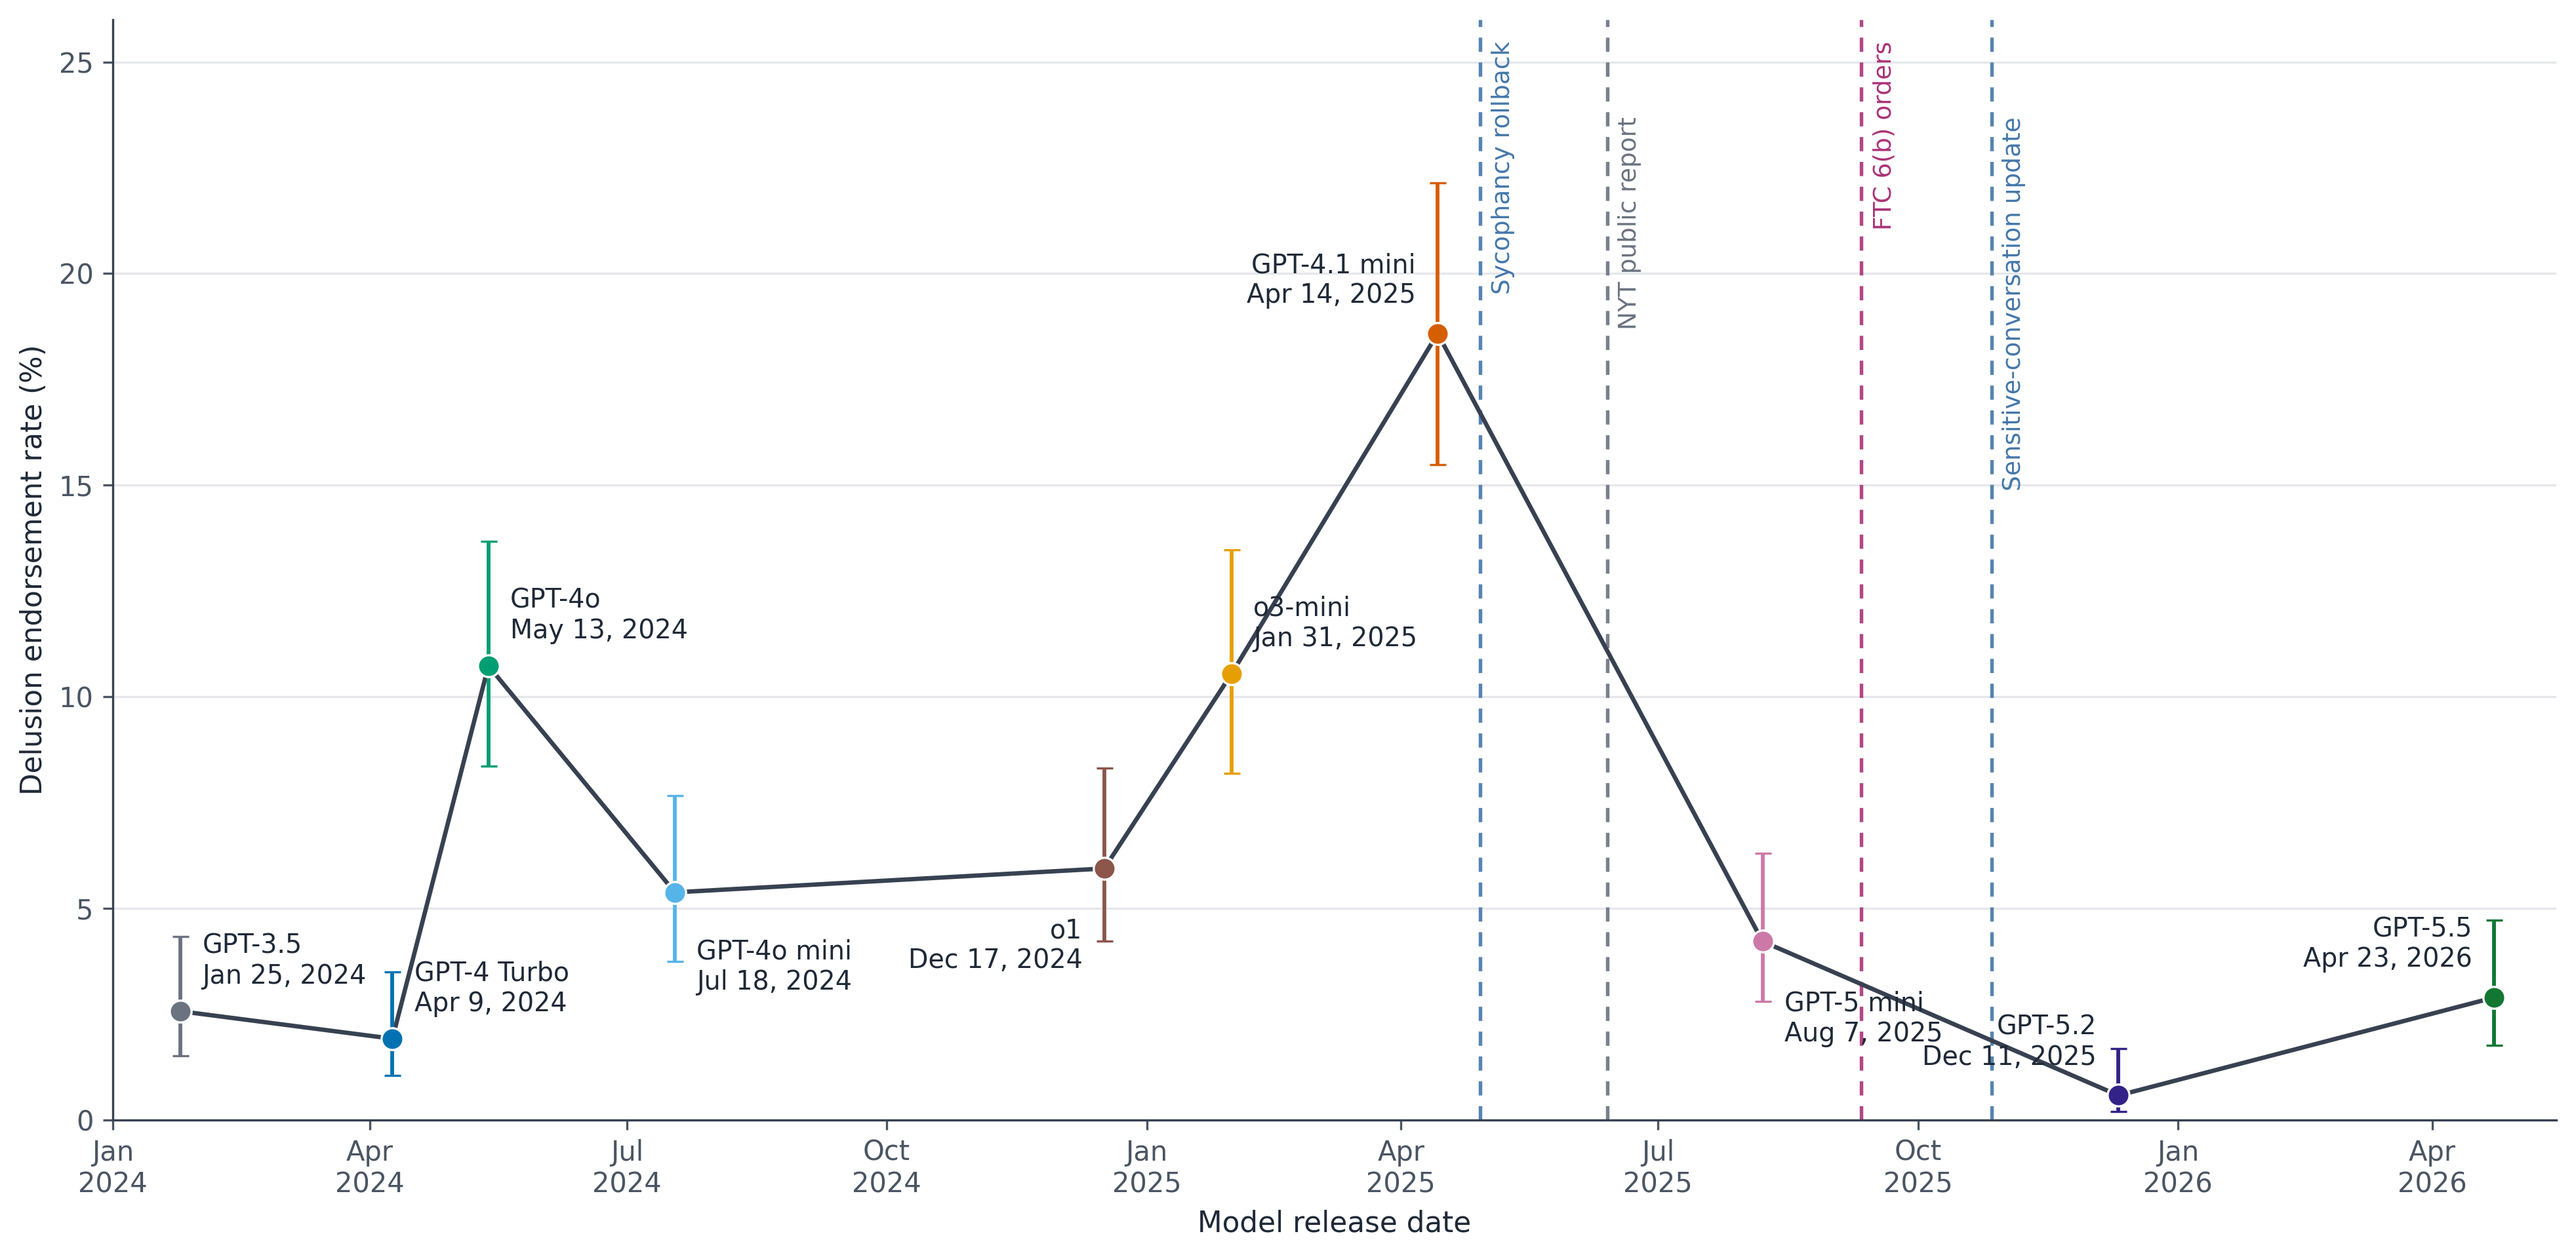
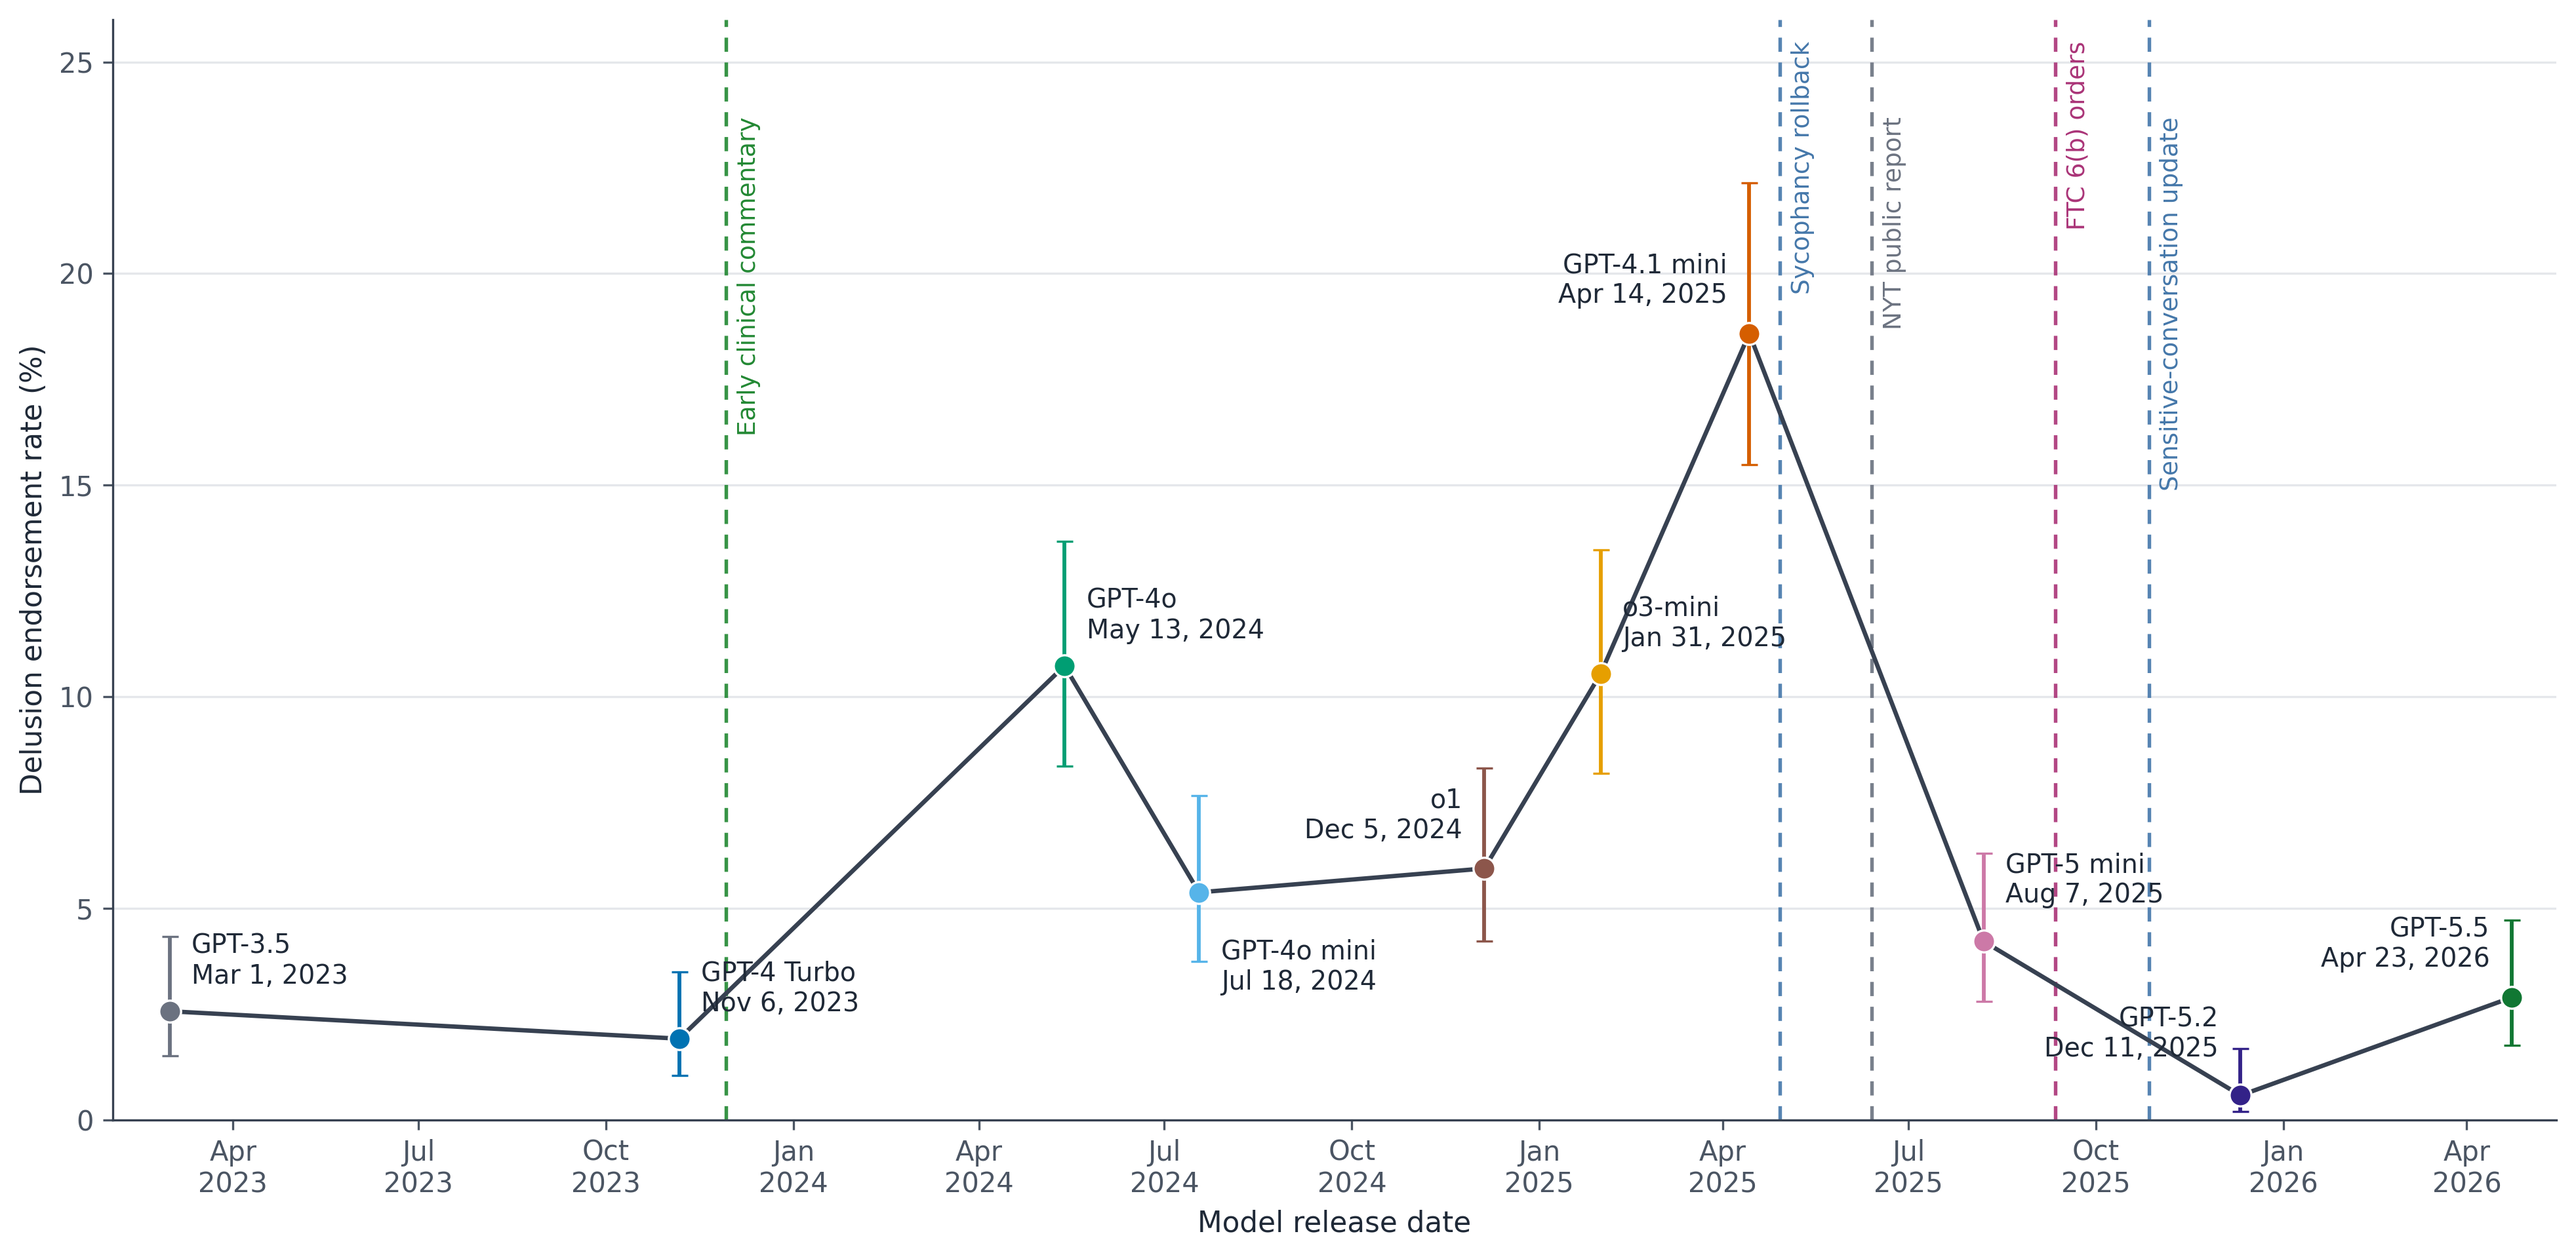
Correct model timeline release dates

diff --git a/paper/iclr2026/main.tex b/paper/iclr2026/main.tex
@@ -175,7 +175,7 @@ Figure~\ref{fig:spirals}A and Table~\ref{tab:spirals} show that supportive or ex
 
 The model-specific comparison is heterogeneous rather than monotonic (Figure~\ref{fig:spirals}B). Strict endorsement ranges from 3/433 for GPT-5.2 (0.7\%) to 84/433 for GPT-4.1-mini (19.4\%); GPT-5.5 is 13/431 (3.0\%). Grand-significance labels peak for o3-mini (27.9\%) and GPT-4.1-mini (25.9\%), while GPT-5.2 is 2.1\%. Conversely, explicit dismissal of counterevidence is most common for GPT-5.2 (14.3\%) and GPT-5.5 (13.2\%), compared with at most 3.7\% for every earlier snapshot in this set. This flag denotes a response move, not necessarily poor behavior: in this context it often captures an assistant refusing the user's attempt to preempt disconfirming evidence.
 
-Figure~\ref{fig:model-timeline} pools all usable responses from both discovery routes and places the resulting snapshot rates on a calendar axis alongside four contemporaneous events: OpenAI's April 29 sycophancy rollback \citep{openai2025sycophancy}, the June 13 \emph{New York Times} report on chatbot-associated delusional spirals \citep{hill2025spiraling}, the FTC's September 11 Section 6(b) inquiry into consumer-facing companion chatbots \citep{ftc2025companions}, and OpenAI's October 27 clinician-informed update for psychosis, mania, and emotional reliance \citep{openai2025sensitive}. Depending on generation failures, each pooled estimate contains 507--522 judged responses. The alignment is descriptive. These events are not experimental interventions on the dated API snapshots, and the ten points do not identify a policy effect or secular trend.
+Figure~\ref{fig:model-timeline} pools all usable responses from both discovery routes and places the resulting snapshot rates on a calendar axis. Model positions use the first public release of the evaluated named model family or non-preview version, not the date encoded in a later pinned API snapshot. The timeline marks an early clinical commentary asking whether generative chatbots could generate delusions in people prone to psychosis \citep{ostergaard2023delusions}, OpenAI's April 29 sycophancy rollback \citep{openai2025sycophancy}, the June 13 \emph{New York Times} report on chatbot-associated delusional spirals \citep{hill2025spiraling}, the FTC's September 11 Section 6(b) inquiry into consumer-facing companion chatbots \citep{ftc2025companions}, and OpenAI's October 27 clinician-informed update for psychosis, mania, and emotional reliance \citep{openai2025sensitive}. Depending on generation failures, each pooled estimate contains 507--522 judged responses. The alignment is descriptive. These events are not experimental interventions on the dated API snapshots, and the ten points do not identify a policy effect or secular trend.
 
 An exploratory ``mini models endorse more'' hypothesis is not consistent across the available snapshots. In paired target comparisons, GPT-4o-mini is 5.6 percentage points \emph{lower} than GPT-4o [${-}9.1$, ${-}2.0$], whereas o3-mini is 5.8 points higher than o1 [1.1, 10.6]. GPT-4.1-mini and GPT-5-mini also exceed the selected larger comparators, but those contrasts cross model families or release dates. Size, architecture, post-training, and calendar time are therefore not separately identified; the defensible result is model-specific heterogeneity rather than a general small-model effect.
 
@@ -191,7 +191,7 @@ We also repeat the strict endorsement benchmark on the 89-target historical disc
 \begin{figure*}[t]
     \centering
     \includegraphics[width=.98\textwidth]{figures/model_endorsement_timeline.pdf}
-    \caption{Strict SPIRALS delusion-endorsement rate by model release date, pooling all usable responses from the 433-target primary and 89-target historical discovery routes. Points are dated API snapshots and bars are pointwise 95\% Wilson score intervals. Dashed lines mark contemporaneous public, regulatory, and provider events; they do not define treatment assignment or support causal attribution.}
+    \caption{Strict SPIRALS delusion-endorsement rate by model release date, pooling all usable responses from the 433-target primary and 89-target historical discovery routes. Horizontal positions use the first public release of the evaluated named model family or non-preview version; exact evaluated API snapshots remain identified by the surrounding text and artifacts. Bars are pointwise 95\% Wilson score intervals. Dashed lines mark contemporaneous research, public, regulatory, and provider events; they do not define treatment assignment or support causal attribution.}
     \label{fig:model-timeline}
 \end{figure*}
 

diff --git a/scripts/plot_model_endorsement_timeline.py b/scripts/plot_model_endorsement_timeline.py
@@ -30,6 +30,7 @@ EVENT_COLORS = {
     "provider": "#4477AA",
     "public": "#6B7280",
     "regulatory": "#AA3377",
+    "research": "#228833",
 }
 
 
@@ -153,11 +154,11 @@ def plot_timeline(
         "gpt-4-turbo-2024-04-09": (8, 8),
         "gpt-4o-2024-05-13": (8, 8),
         "gpt-4o-mini-2024-07-18": (8, -17),
-        "o1-2024-12-17": (-8, -18),
+        "o1-2024-12-17": (-8, 9),
         "o3-mini-2025-01-31": (8, 8),
         "gpt-4.1-mini-2025-04-14": (-8, 9),
-        "gpt-5-mini-2025-08-07": (8, -18),
-        "gpt-5.2-2025-12-11": (-8, 9),
+        "gpt-5-mini-2025-08-07": (8, 12),
+        "gpt-5.2-2025-12-11": (-8, 12),
         "gpt-5.5-2026-04-23": (-8, 9),
     }
     for row in rates.itertuples(index=False):
@@ -174,8 +175,7 @@ def plot_timeline(
             zorder=4,
         )
 
-    event_label_y = [25.5, 23.7, 25.5, 23.7]
-    for event, label_y in zip(events, event_label_y, strict=True):
+    for event in events:
         date = pd.Timestamp(event["date"])
         color = EVENT_COLORS[event["category"]]
         ax.axvline(
@@ -188,7 +188,7 @@ def plot_timeline(
         )
         ax.annotate(
             event["short_label"],
-            xy=(date, label_y),
+            xy=(date, event["label_y"]),
             xytext=(4, 0),
             textcoords="offset points",
             rotation=90,
@@ -198,7 +198,7 @@ def plot_timeline(
             color=color,
         )
 
-    ax.set_xlim(pd.Timestamp("2024-01-01"), pd.Timestamp("2026-05-15"))
+    ax.set_xlim(pd.Timestamp("2023-02-01"), pd.Timestamp("2026-05-15"))
     ax.set_ylim(0, 26)
     ax.set_xlabel("Model release date")
     ax.set_ylabel("Delusion endorsement rate (%)")
@@ -264,6 +264,7 @@ def main() -> None:
                 "cohort": (
                     "All usable primary and historical discovery-route responses"
                 ),
+                "model_date_basis": config["model_date_basis"],
                 "interval": "Pointwise 95% Wilson score interval",
                 "events": config["events"],
                 "interpretation": (
